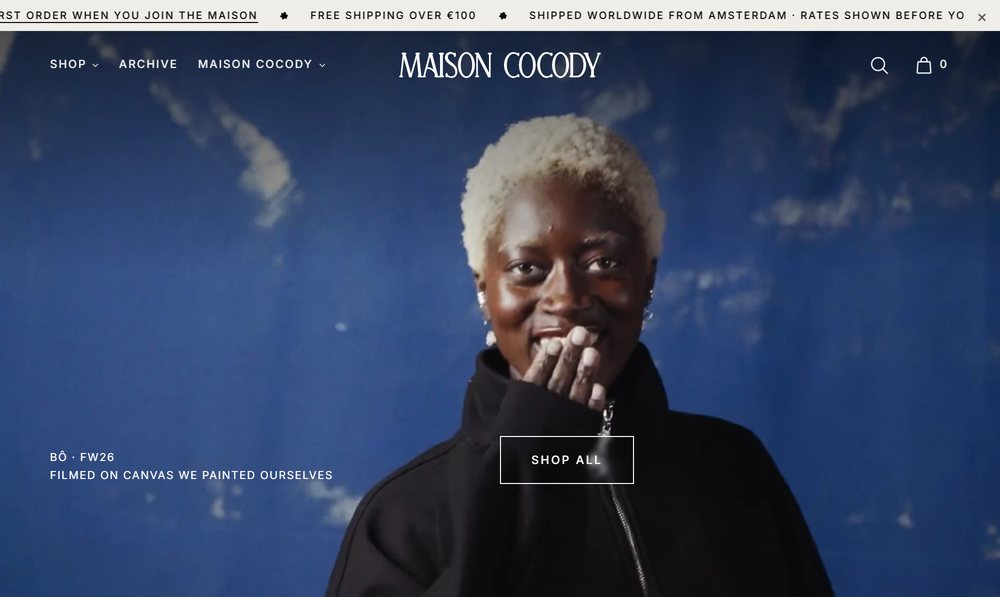
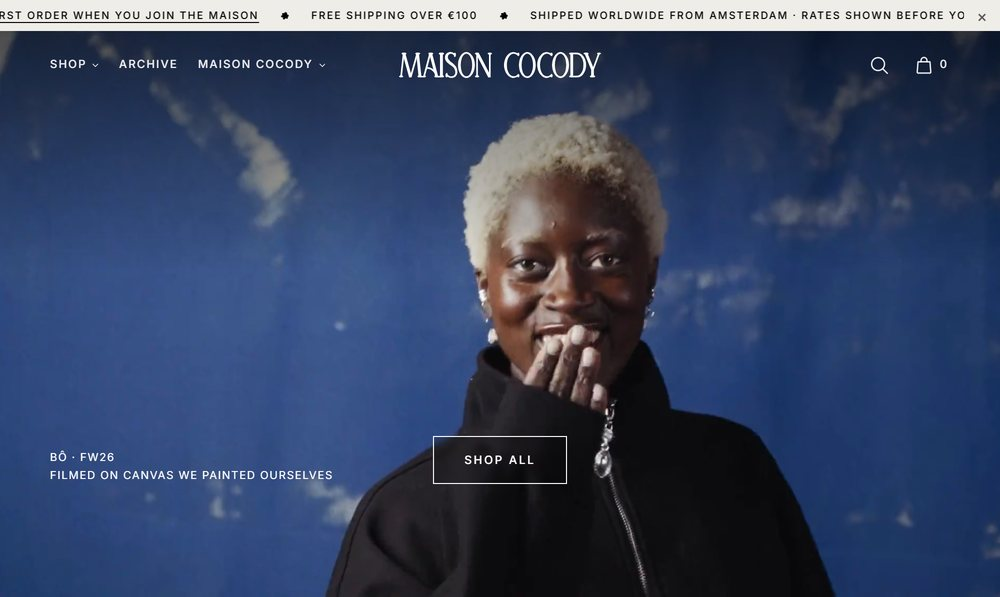
Centre the homepage button, and take the review bar off the Direction E pages
"Shop all" sat right of centre, worst on a phone: its entrance
animation animates transform and its final frame, held by the fill
mode, cancelled the translateX(-50%) that centred it. Centred with
margins now, which the animation cannot touch.

"Remove the pop-up below so we can see it fully": the review bar is
gone from the two Direction E pages, and on every other page it starts
folded to a small tab in the corner that unfolds on click. The body
reserves room for it only while it is open.

diff --git a/assets/css/brand.css b/assets/css/brand.css
@@ -297,12 +297,31 @@ a:focus-visible .shot > .shot__b { opacity: 1; }
   color: #8a8a8a; font-size: 1.1rem; line-height: 1; padding: .2rem .4rem;
 }
 .rv__close:hover { color: #fff; }
-body { padding-bottom: 3.2rem; }
+/* the page reserves room for the bar only while the bar is actually
+   showing: not when it is hidden by its ×, not on a page without one,
+   and not while it is folded to the tab */
+body:has(.rv:not([hidden]):not(.is-collapsed)) { padding-bottom: 3.2rem; }
+
+/* Folded to a tab in the corner by default since the afternoon of
+   21 Sep — Charlz asked for the bar at the foot to go so the page could
+   be seen whole. The tab reopens it; the × still hides it for good. */
+.rv__tab {
+  display: none; padding: .35rem .7rem;
+  color: #cfcfcf; border: 1px solid #454548; border-radius: 2px;
+  font-size: .68rem; letter-spacing: .04em; white-space: nowrap;
+}
+.rv__tab:hover { color: #fff; border-color: #7a7a7d; }
+.rv.is-collapsed {
+  inset: auto .75rem .75rem auto; width: auto; padding: .3rem;
+  border: 1px solid #333; border-radius: 3px; gap: 0;
+}
+.rv.is-collapsed > :not(.rv__tab) { display: none; }
+.rv.is-collapsed .rv__tab { display: inline-block; }
 
 @media (max-width: 720px) {
   .rv { font-size: .66rem; gap: .5rem; padding: .5rem .75rem; }
   .rv__group { margin-left: 0; width: 100%; }
   /* the bar wraps to two or three lines on a phone, so the page needs
      more room underneath it than the desktop reserve */
-  body { padding-bottom: 6.5rem; }
+  body:has(.rv:not([hidden]):not(.is-collapsed)) { padding-bottom: 6.5rem; }
 }

diff --git a/assets/css/dir-e.css b/assets/css/dir-e.css
@@ -29,6 +29,9 @@
    ------------------------------------------------------------------ */
 
 .e { --bar-h: 4.25rem; }
+/* no review bar on the Direction E pages since the afternoon of 21 Sep
+   ("remove the pop-up below, so we can see it fully"), so no reserve */
+body.e { padding-bottom: 0; }
 
 /* ---------- the bar over the film ----------
    The hero slides up under the sticky bar by the bar's own height, so
@@ -80,8 +83,11 @@
 /* outlined, as the one Charlz circled: a hairline on the film, filled
    only on hover */
 .e__hero-cta {
-  position: absolute; left: 50%; bottom: clamp(5rem, 20%, 12rem);
-  transform: translateX(-50%);
+  /* centred with margins, not a transform: the entrance animation
+     below animates transform and would cancel a translateX(-50%),
+     which is exactly what pushed the button off-centre on the phone */
+  position: absolute; left: 0; right: 0; bottom: clamp(5rem, 20%, 12rem);
+  width: max-content; margin-inline: auto;
   background: rgba(0,0,0,.14); color: #fff; border: 1px solid #fff;
   backdrop-filter: blur(3px); -webkit-backdrop-filter: blur(3px);
   padding: .9rem 1.9rem;

diff --git a/assets/js/cocody.js b/assets/js/cocody.js
@@ -249,8 +249,18 @@
     var close = bar.querySelector('.rv__close');
     if (close) close.addEventListener('click', function () {
       bar.hidden = true;
-      document.body.style.paddingBottom = '0';
     });
+
+    /* folded to a tab by default (21 Sep pm): the client wanted the page
+       whole. The tab names the direction the page is wearing. */
+    var tab = document.createElement('button');
+    tab.type = 'button';
+    tab.className = 'rv__tab';
+    var d = document.documentElement.dataset.direction;
+    tab.textContent = 'Review options' + (d && NAMES[d] ? ' · ' + NAMES[d] : '') + ' ▴';
+    tab.addEventListener('click', function () { bar.classList.remove('is-collapsed'); });
+    bar.insertBefore(tab, bar.firstChild);
+    bar.classList.add('is-collapsed');
   }
 
   /* ------------------------------------------------------------------

diff --git a/directions/e-studio.html b/directions/e-studio.html
@@ -299,15 +299,6 @@
   </div>
 </footer>
 
-<div class="rv">
-  <span class="rv__note"><b>Direction E — Studio.</b> Built from your notes of 21 September. Products and prices are live data; event dates and Lab titles are placeholder.</span>
-  <span class="rv__group">
-    <a class="rv__link" href="e-system.html">Type, colour, nav, footer</a>
-    <a class="rv__link" href="../templates/shop.html?dir=e">The shop</a>
-    <a class="rv__link" href="../START-HERE.html">All options</a>
-    <button class="rv__close" type="button" aria-label="Hide this review bar">×</button>
-  </span>
-</div>
 
 <script src="../assets/js/catalogue.js"></script>
 <script src="../assets/js/dir-e.js"></script>

diff --git a/directions/e-system.html b/directions/e-system.html
@@ -425,15 +425,6 @@
   </div>
 </footer>
 
-<div class="rv">
-  <span class="rv__note"><b>Direction E — the system.</b> Type, colour, navigation, masthead, marquee and footer, note by note.</span>
-  <span class="rv__group">
-    <a class="rv__link" href="e-studio.html">The homepage</a>
-    <a class="rv__link" href="../templates/shop.html?dir=e">The shop</a>
-    <a class="rv__link" href="../START-HERE.html">All options</a>
-    <button class="rv__close" type="button" aria-label="Hide this review bar">×</button>
-  </span>
-</div>
 
 <script src="../assets/js/catalogue.js"></script>
 <script src="../assets/js/cocody.js"></script>
